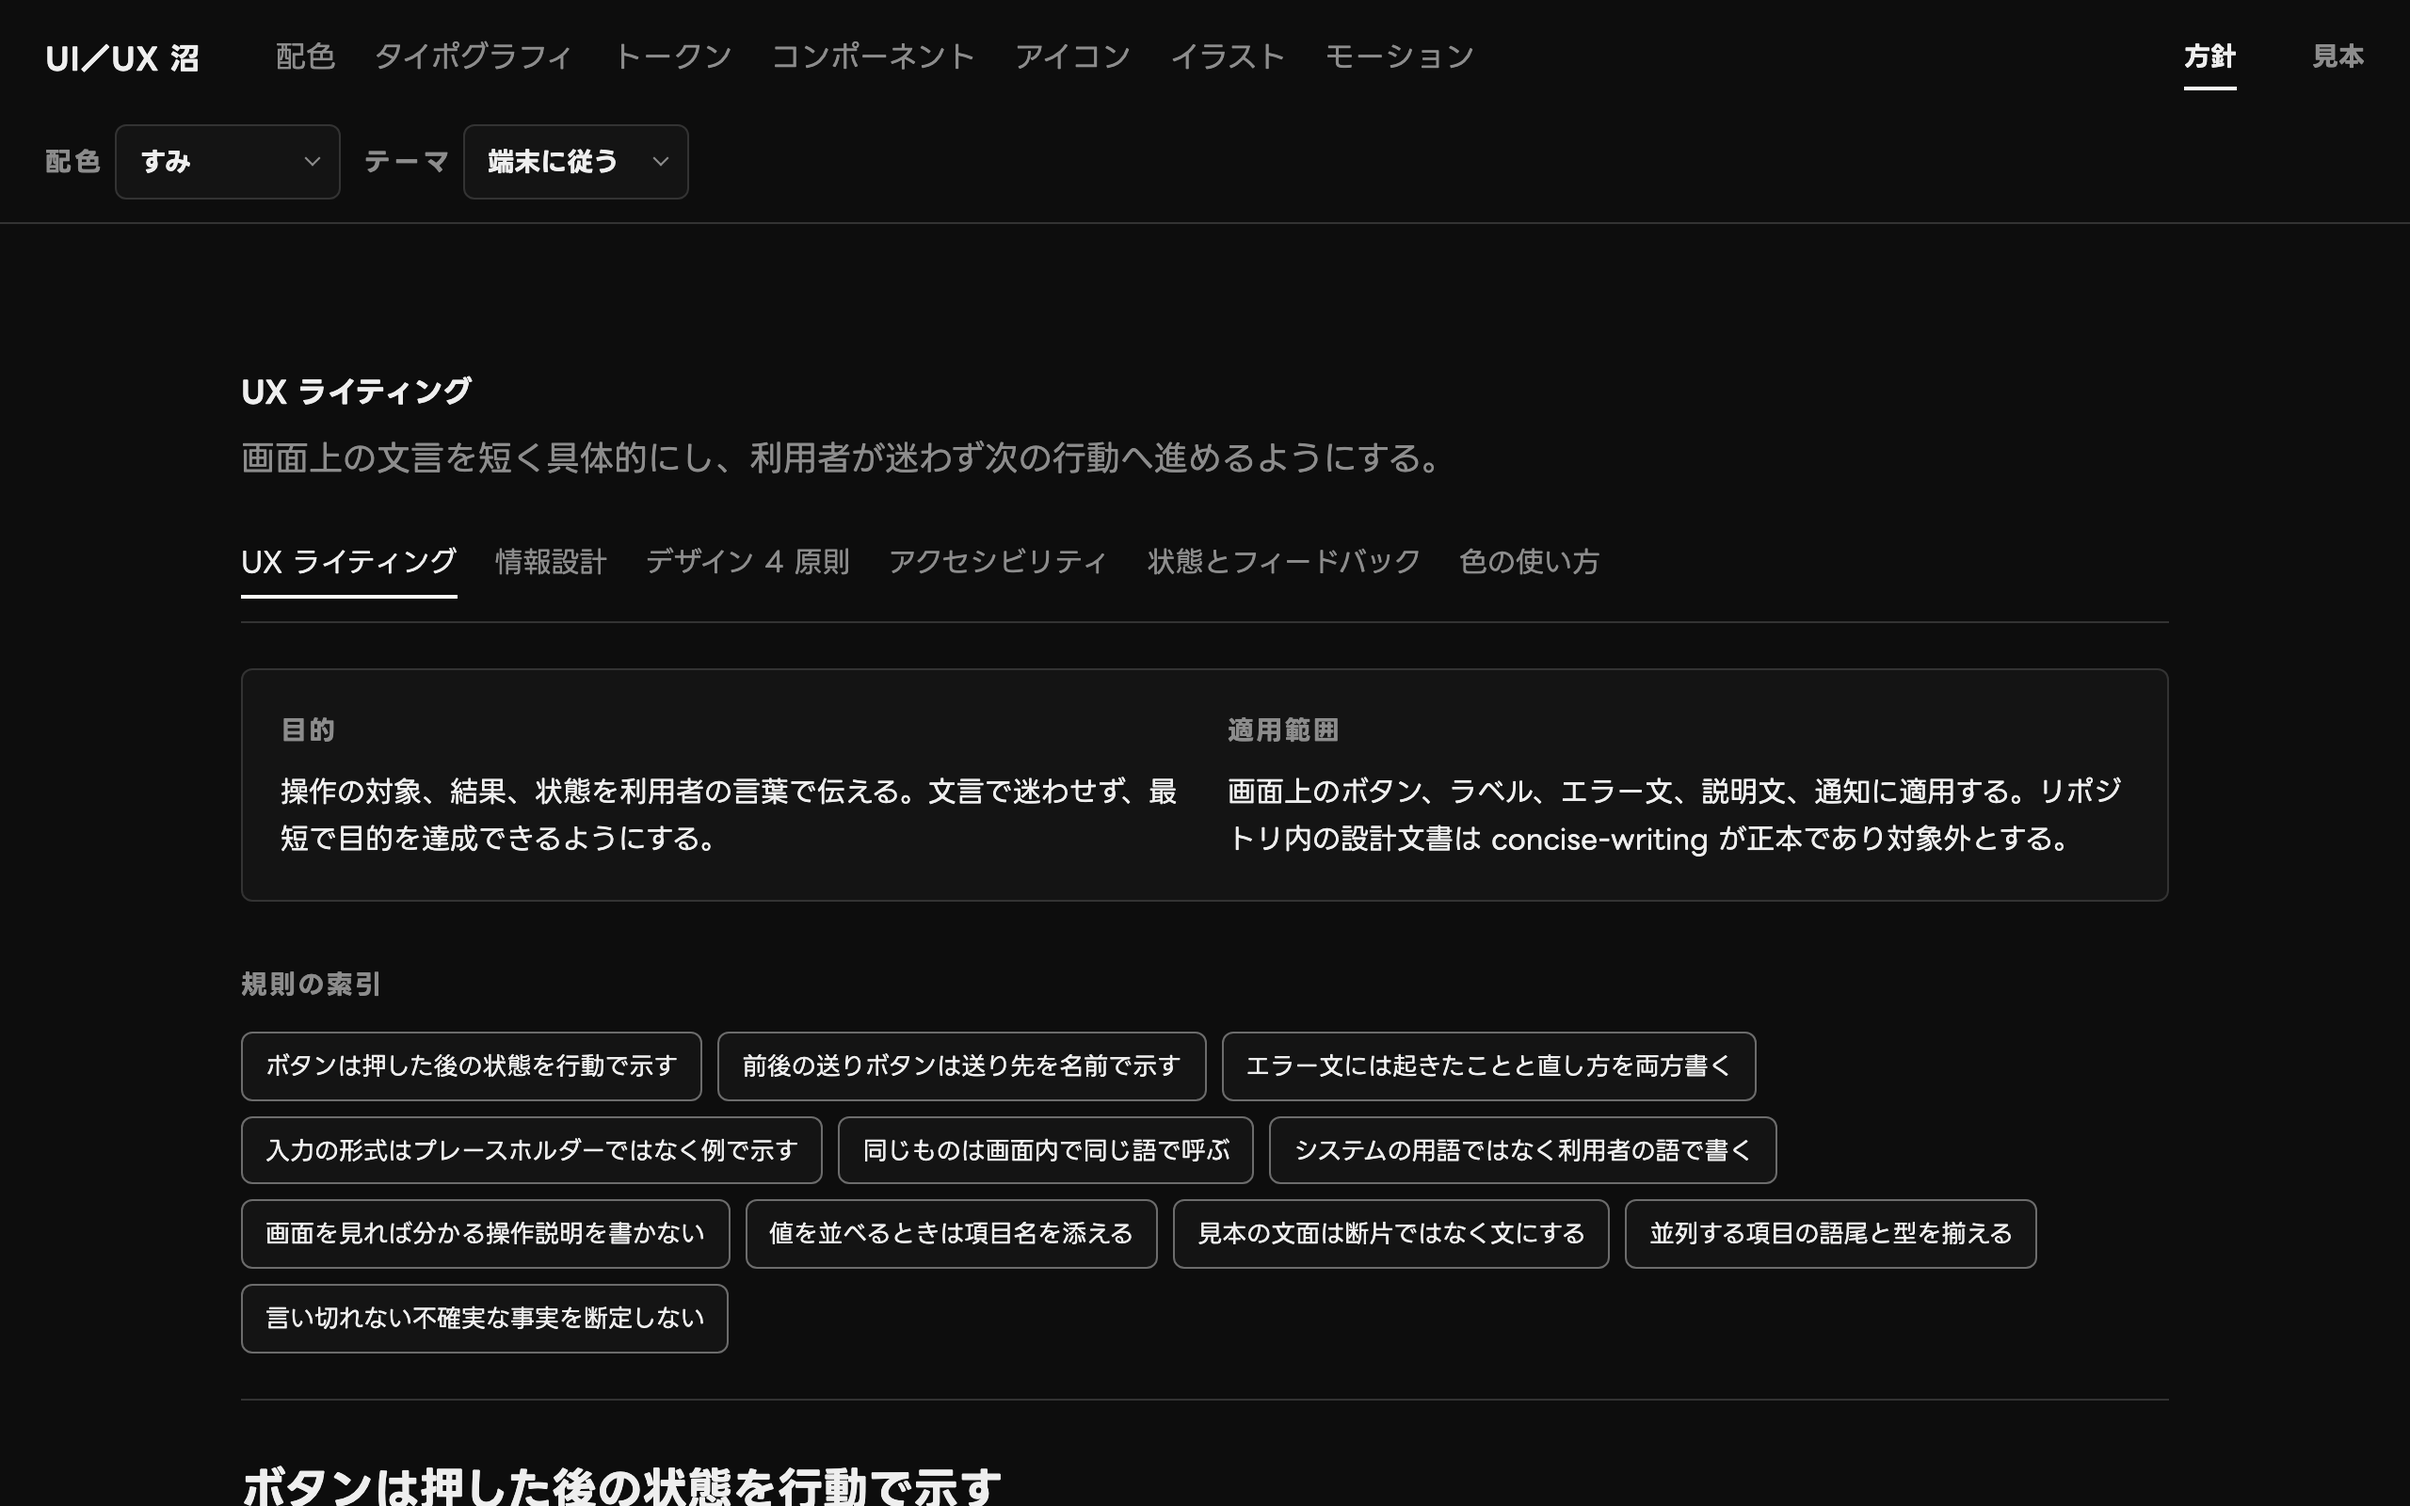
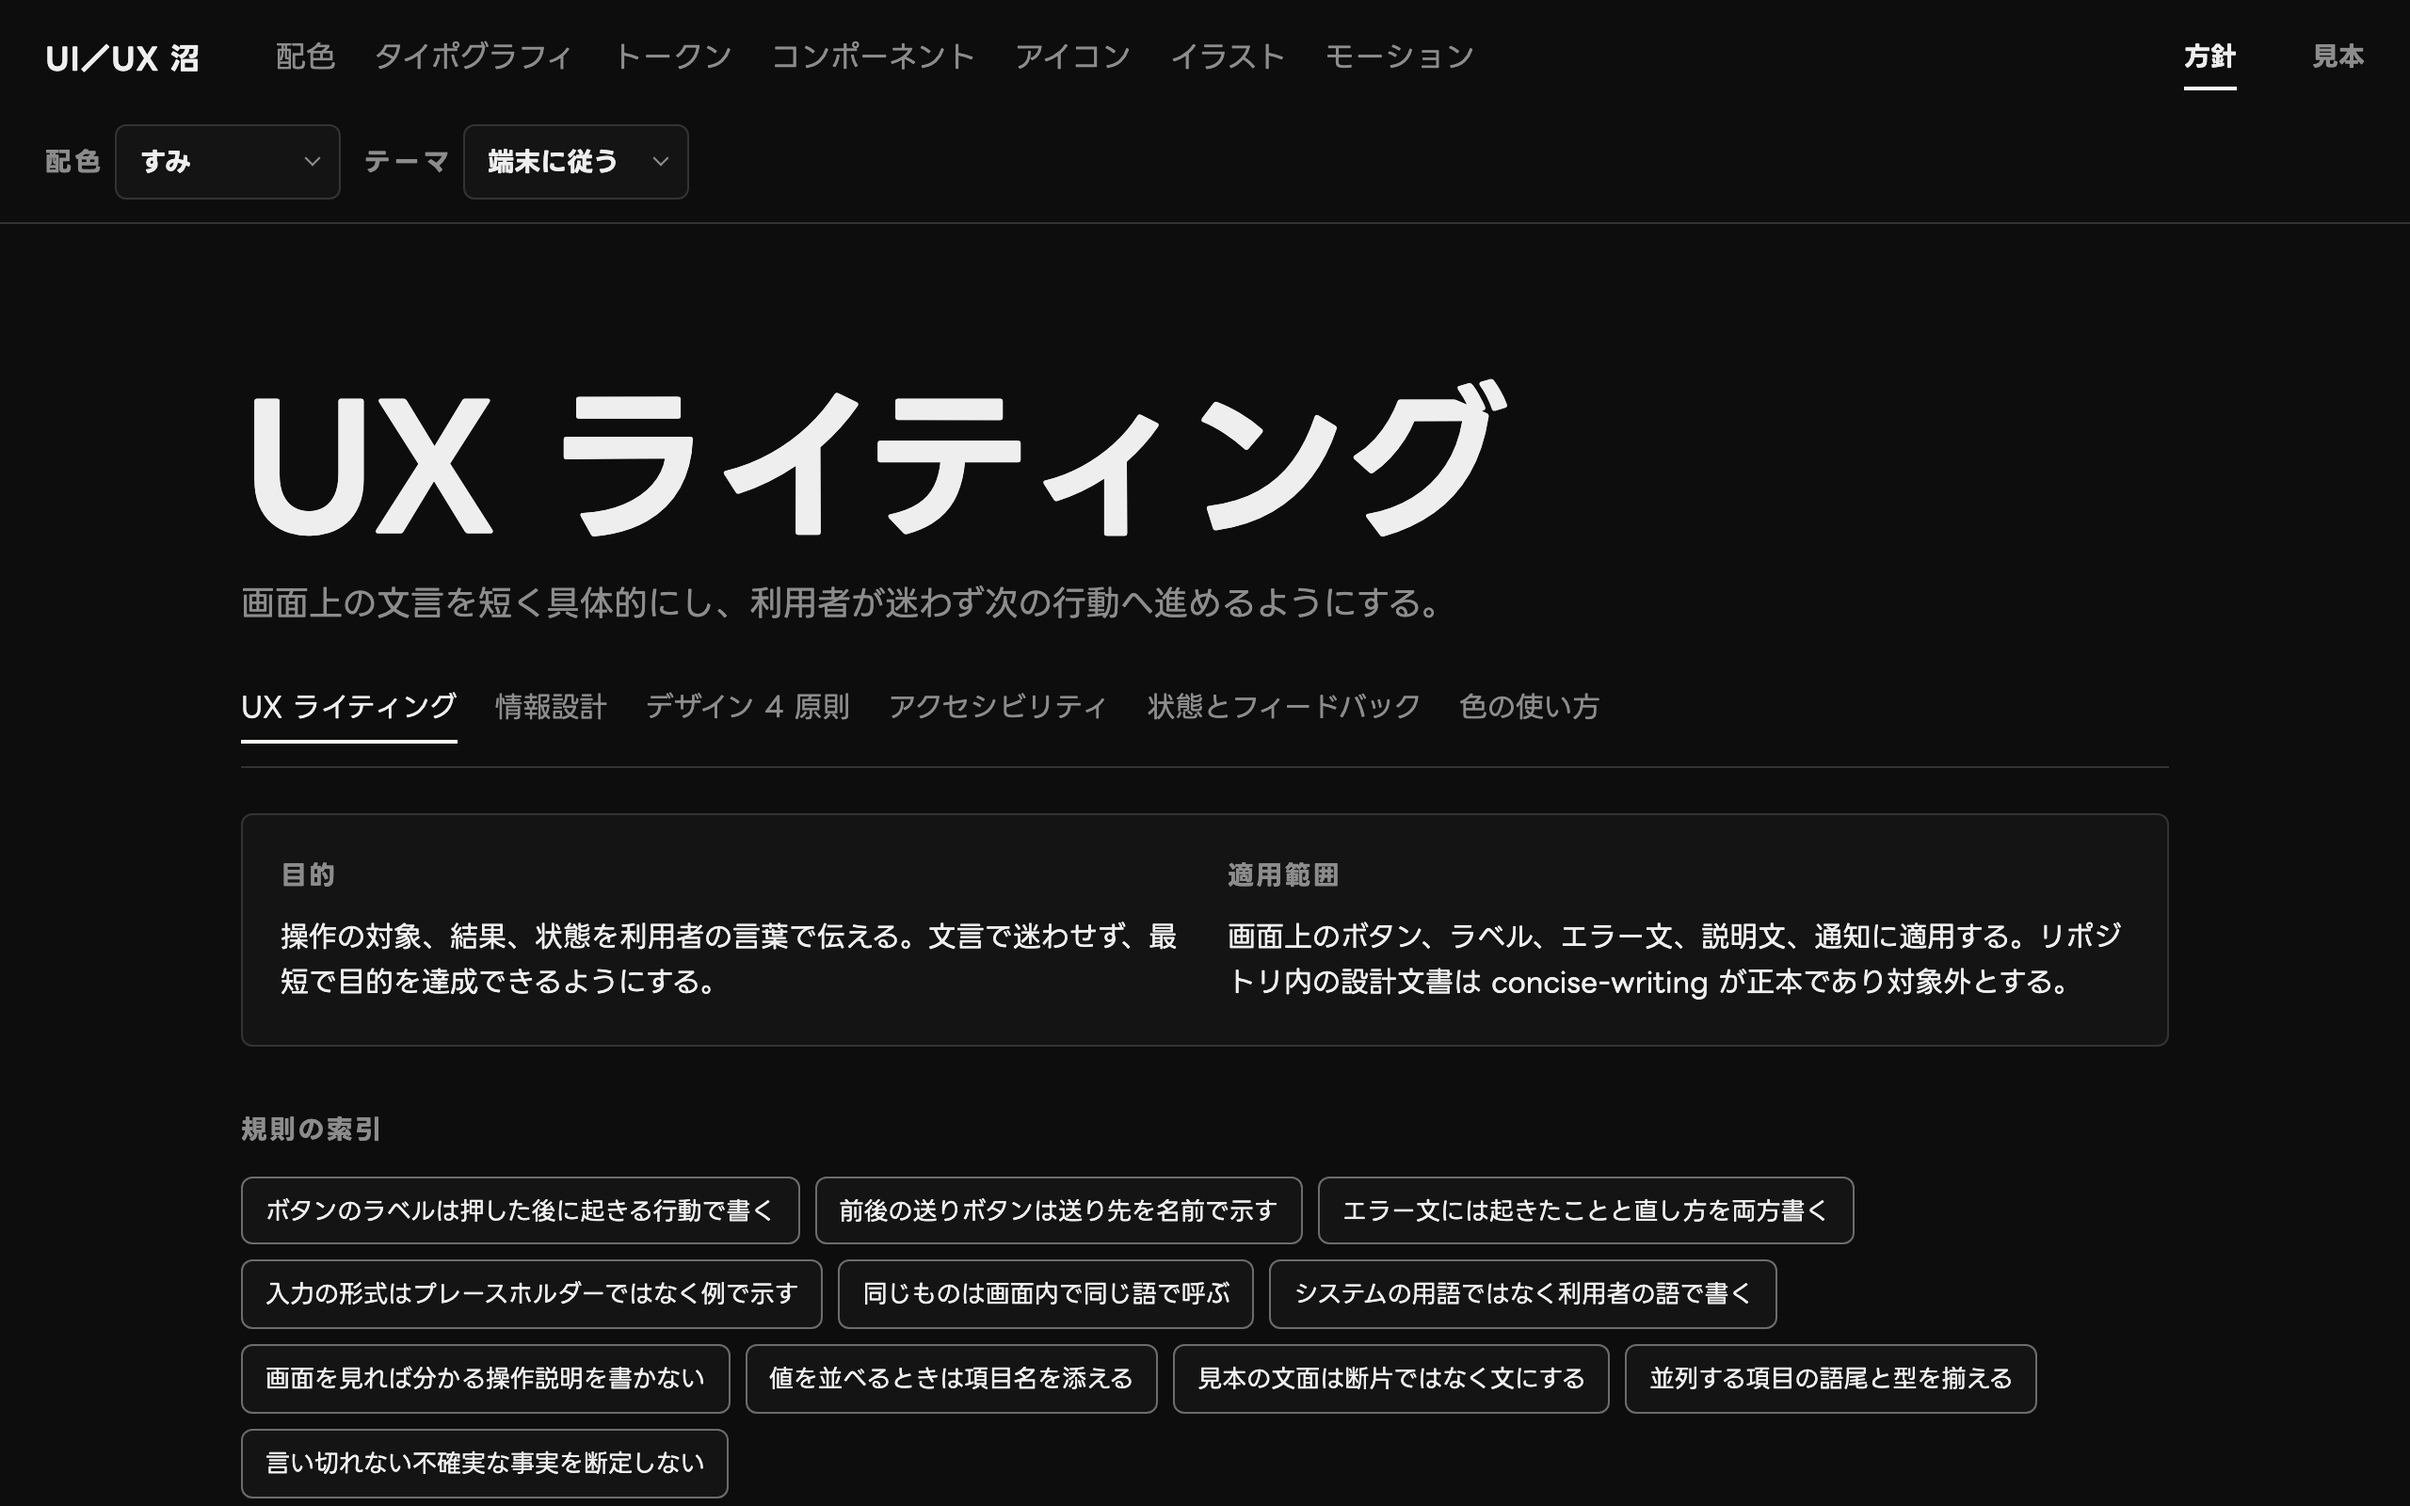
docs: 題字の修正を反映して方針ページの preview を撮り直す 📝
画面の一覧に guide を書き漏らしていたのも直す。

diff --git a/experiments/catalog-editorial/README.md b/experiments/catalog-editorial/README.md
@@ -56,7 +56,7 @@ variant で変える軸は IA、文字、グリッド、色の 4 つである。
 
 - 比較は `just web-dev` の実サイズで行う。URL は `http://localhost:5183/?bare#catalog-editorial/<id>`。
 - variant の根は `position: fixed; inset: 0; overflow: auto` にして、実行基盤の `.runner-main` の余白から切り離す。`platforms/web/src/runner.css` は変えない。他の Experiment に影響するためである。
-- 画面は top / list / detail / sheet の 4 つにし、query `?screen=` で切り替える。hash は実行基盤が variant の選択に使っている。query にすると再読込で画面が消えず、`scripts/web-shot.sh` で 1 画面ずつ撮影できる。
+- 画面は top / list / detail / sheet / guide の 5 つにし、query `?screen=` で切り替える。hash は実行基盤が variant の選択に使っている。query にすると再読込で画面が消えず、`scripts/web-shot.sh` で 1 画面ずつ撮影できる。
 - データは `shared/data.ts` が読む実データだけを使う。ダミーの文字列と、押しても何も起きない部品を置かない。
 - `experiments` から `apps/` へ import しない。`shared/` は同じ glob を自前で書く。不整合の検査は `apps/catalog/src/content/collect.ts` の責務のままにする。
 - `apps/catalog/src/catalog.css`、`apps/catalog/src/components/*`、`experiments/soft-component-kit/shared/*` を import せず、class 名も流用しない。
